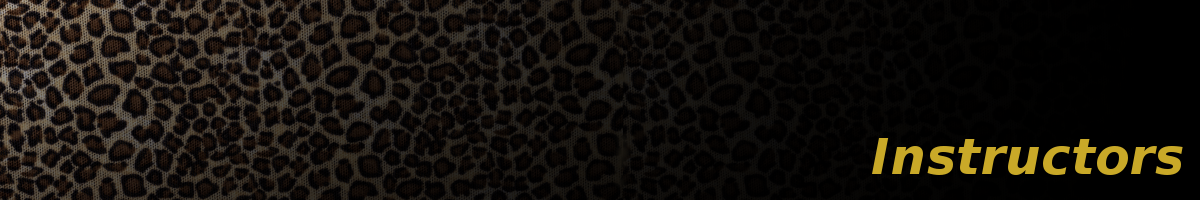
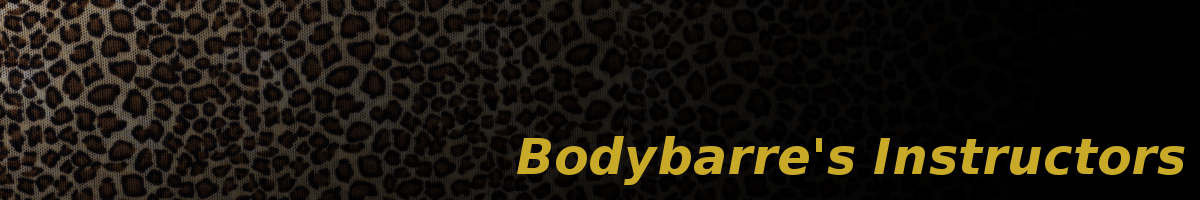
Small changes to instructor's page.

Changed region(s): [[0.4317, 0.69, 0.9867, 0.93]]

diff --git a/instructors/index.php b/instructors/index.php
@@ -33,17 +33,6 @@
 			</div>
 			
 			<div class="row margined-row">
-				<div class="col-md-12">
-					<i>
-						<h3 class="center pink">
-							Meet the true force of Bodybarre; a team of the most passionate and inspiring teachers in the North West.
-						</h3>
-					</i>
-					</b>
-				</div>
-			</div>
-			
-			<div class="row margined-row">
 				<div class="col-xs-12 col-sm-4">
 					<div class="thumbnail">
 						<img class="img-responsive" src="../images/kaz.jpg" alt="Karen Chaundy Photo">
